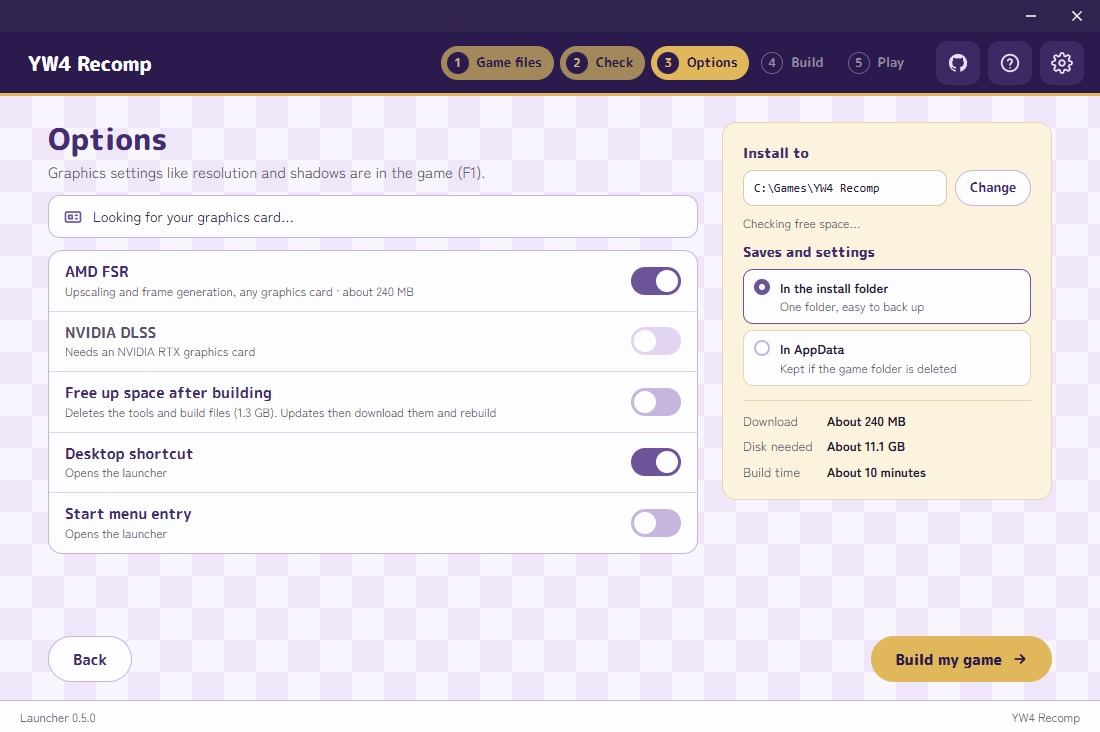
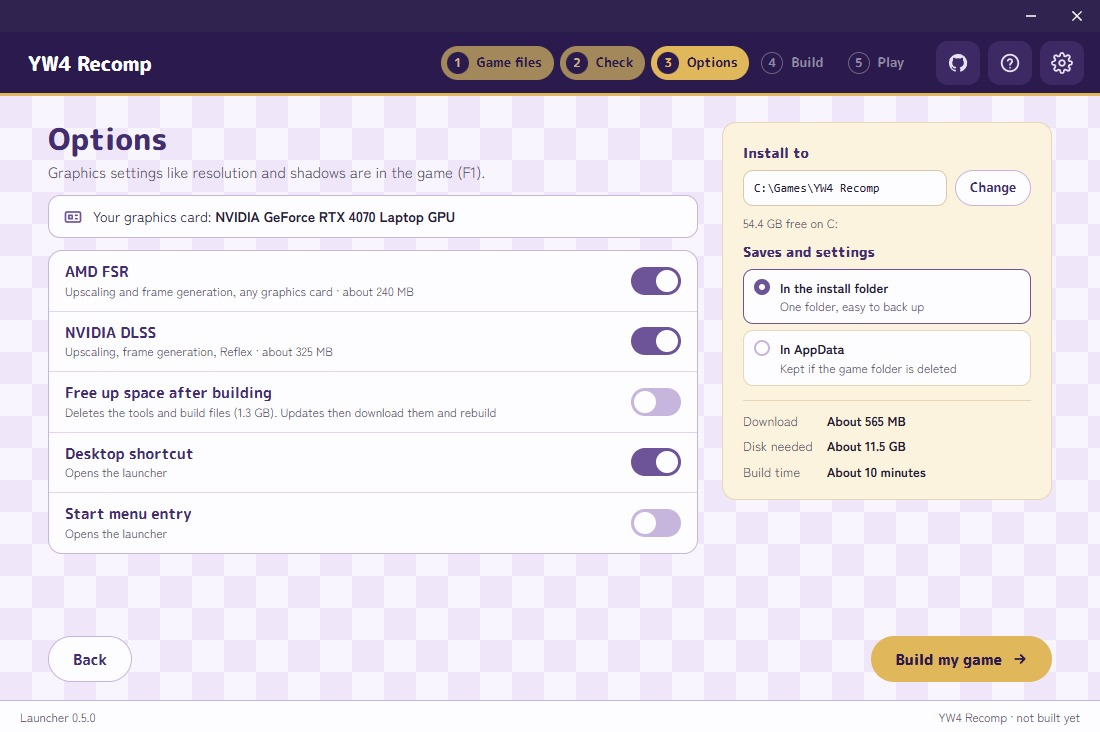
Docs: README and launcher page text edits, decision 0056 wording
Claude-Session: https://claude.ai/code/session_011mSziYPd3Gb1Fegk761Loq

diff --git a/docs/launcher/index.html b/docs/launcher/index.html
@@ -65,7 +65,7 @@ kbd { font: 700 .82em/1 var(--display); background: var(--lilac-1); border: 1px 
 .btn.ghost:hover { color: var(--gold); background: oklch(80% 0.12 85 / .12); }
 .shot { background: var(--gold); border-radius: var(--r); padding: 8px; box-shadow: 0 18px 40px oklch(15% 0.08 295 / .5); margin: 0; }
 .shot img { display: block; width: 100%; height: auto; border-radius: 8px; }
-.shot figcaption { color: var(--ink-2); font-size: .8rem; margin: 8px 6px 2px; }
+.shot figcaption { color: var(--violet-deep); font-size: .8rem; margin: 8px 6px 2px; }
 
 .shell { max-width: 1280px; margin: 0 auto; padding: 40px 20px 72px; display: grid; grid-template-columns: 236px minmax(0, 1fr); gap: 40px; align-items: start; }
 .shell > * { min-width: 0; }
@@ -96,6 +96,7 @@ article { background: var(--white); border-radius: var(--r); border: 1px solid v
 .spec dd { font-weight: 700; }
 .spec dt:last-of-type, .spec dd:last-of-type { border-bottom: 0; }
 .whole { margin: 0; }
+.whole + .whole { margin-top: 14px; }
 .whole img { display: block; width: 100%; height: auto; border-radius: 10px; border: 1px solid var(--lilac-2); }
 .whole figcaption { margin: 6px 2px 0; font-size: var(--step--1); color: var(--ink-2); }
 .pair { display: grid; grid-template-columns: repeat(auto-fit, minmax(min(100%, 320px), 1fr)); gap: 14px; }
@@ -129,14 +130,14 @@ footer a { color: var(--gold); }
       <span class="eyebrow">YW4 Recomp · fan PC port</span>
       <h1>The launcher</h1>
       <p>A Windows app for the PC version of <i>Yo-kai Watch 4++</i>. Point it at your own game files: it checks them,
-        builds the game on your PC once and starts it, with mods, DLC, saves and screenshots in one place.</p>
+        builds YW4Recomp on your PC once and starts it, with mods, DLC, saves and screenshots all in one place.</p>
       <div class="stats">
         <div class="stat"><b>5 steps</b><span>game files, check, options, build, play</span></div>
         <div class="stat"><b>10–15 min</b><span>to build the game, once, on your PC</span></div>
         <div class="stat"><b>11 themes</b><span>synced with the in-game overlay</span></div>
       </div>
       <div class="links">
-        <a class="btn ghost" href="../">Home</a>
+        <a class="btn" href="../">Home</a>
         <a class="btn ghost" href="../compare/">Comparisons</a>
         <a class="btn ghost" href="https://github.com/ILFforever/YW4Recomp">Project on GitHub</a>
       </div>
@@ -168,14 +169,15 @@ footer a { color: var(--gold); }
       <div class="body">
         <div class="top">
           <div class="prose">
-            <p>The first time, a welcome popup says what's going to happen:</p>
+            <p>Follow the steps below to build your own copy of YW4Recomp:</p>
             <ol class="steps">
               <li><span><b>Point it at your game files.</b> NSP, XCI or extracted folders of version 2.2.0.</span></li>
-              <li><span><b>It checks and builds the game.</b> On this PC, once: about 10 to 15 minutes.</span></li>
+              <li><span><b>It checks, extracts and builds the game.</b> locally, once: about 10 to 15 minutes.</span></li>
               <li><span><b>Play.</b> From the launcher, or from a shortcut.</span></li>
             </ol>
-            <p>Next to it the launcher lists what you need before you start: the game and its 2.2.0 update, the keys
-              for NSP and XCI files, a graphics card with Vulkan 1.3, and the free disk space.</p>
+            <p>What you need before you start: the game and its 2.2.0 update, the keys
+              for NSP and XCI files, a graphics card with Vulkan 1.3, and the free disk space. 
+              The launcher checks your files before beginning the build process.</p>
           </div>
           <div class="spec"><dl>
             <dt>Needs</dt><dd>Windows, x86-64</dd>
@@ -198,14 +200,13 @@ footer a { color: var(--gold); }
             <p>Choose how your copy is stored: <b>NSP or XCI</b> files, or <b>extracted folders</b> (ExeFS and RomFS,
               the update applied). Then point it at the base game, the 2.2.0 update, the keys folder and, if you have
               them, the DLC.</p>
-            <p><b>Nothing from the game comes with the launcher.</b> Your files stay on your PC and are only read; the
-              launcher never downloads games or keys.</p>
+            <p><b>Nothing from the game comes with the launcher.</b> The YKW4 Recomp launcher does not ship with any game files nor assets and we do not condone piracy or unauthorized distribution of copyrighted materials.</p>
           </div>
           <div class="spec"><dl>
             <dt>Formats</dt><dd>NSP, XCI, or extracted folders</dd>
-            <dt>Version</dt><dd>2.2.0, checked</dd>
+            <dt>Version</dt><dd>2.2.0 (Final version)</dd>
             <dt>Keys</dt><dd>prod.keys for NSP and XCI; an NSP also needs title.keys</dd>
-            <dt>DLC</dt><dd>Optional</dd>
+            <dt>DLC</dt><dd>Optional (can be added later)</dd>
           </dl></div>
         </div>
         <figure class="whole">
@@ -221,14 +222,13 @@ footer a { color: var(--gold); }
         <div class="top">
           <div class="prose">
             <ul>
-              <li><b>Check</b> (a few seconds, nothing changed): the files are the right game and the right version,
+              <li><b>Check</b> launcher checks if the files are the right game and the right version,
                 and the keys open them.</li>
-              <li><b>Options</b>: where the game goes, whether saves and settings stay in the game's folder (one
-                folder, easy to back up) or in AppData (kept if the folder is deleted), shortcuts, and the AMD FSR and
-                NVIDIA DLSS downloads. It names your graphics card; DLSS is greyed out without an NVIDIA RTX card. The
+              <li><b>Options</b>: where the build goes, whether saves and settings stay in the game's folder or in AppData, shortcuts, and your option to download AMD FSR or
+                NVIDIA DLSS. It names your graphics card; DLSS is greyed out without an NVIDIA RTX card. The
                 graphics settings themselves (resolution, shadows...) are in the game.</li>
-              <li><b>Build</b>: the game's code is translated and compiled into a Windows program on your PC, about
-                10 to 15 minutes, once. The launcher shows how far it is.</li>
+              <li><b>Build</b>: the game's code is being translated and compiled into a Windows program on your PC, about
+                10 to 15 minutes, once. You can follow along using the progress bar on screen.</li>
             </ul>
           </div>
           <div class="spec"><dl>
@@ -243,12 +243,12 @@ footer a { color: var(--gold); }
           <figcaption>Check: all set, with the files found</figcaption>
         </figure>
         <figure class="whole">
-          <img src="img/options.jpg" loading="lazy" alt="The Options screen: the install folder, saves in the game folder or AppData, AMD FSR, NVIDIA DLSS, shortcuts, and the download and disk size">
-          <figcaption>Options: where the game goes, and the downloads</figcaption>
+          <img src="img/options.jpg" loading="lazy" alt="The Options screen: your graphics card named, the install folder, saves in the game folder or AppData, AMD FSR, NVIDIA DLSS, free up space after building, shortcuts, and the download and disk size">
+          <figcaption>Options: where the game goes, and what to download</figcaption>
         </figure>
         <figure class="whole">
           <img src="img/build.jpg" loading="lazy" alt="The Build screen: Building your game, 0% with a progress bar, Show details and Cancel">
-          <figcaption>Build: the progress bar, once, about 10 to 15 minutes</figcaption>
+          <figcaption>Build: the progress bar, initial build, about 10 to 15 minutes</figcaption>
         </figure>
       </div>
     </article>
@@ -258,12 +258,12 @@ footer a { color: var(--gold); }
       <div class="body">
         <div class="top">
           <div class="prose">
-            <p>Once the game is built, the launcher opens on <b>Play</b>. Around the button:</p>
+            <p>Once the game is built, the launcher opens on <b>Play</b>. With options:</p>
             <ul>
               <li><b>Overview</b>: what's new in this version, and your latest screenshots (<kbd>F12</kbd> in the game).</li>
               <li><b>Screenshots</b>, <b>Mods</b> (the English patch and other Switch mods) and <b>DLC</b> tabs.</li>
               <li>Last played, play time, and shortcuts to the saves and the logs.</li>
-              <li><b>Free up space</b>: the build files the game doesn't need to run.</li>
+              <li><b>Free up space</b>: you can remove the build files the game doesn't need to run.</li>
             </ul>
           </div>
           <div class="spec"><dl>
@@ -294,9 +294,9 @@ footer a { color: var(--gold); }
             </ul>
           </div>
           <div class="spec"><dl>
-            <dt>On Play</dt><dd>Hide, minimise, keep open, close</dd>
-            <dt>Saves</dt><dd>Game folder or AppData</dd>
-            <dt>Uninstall</dt><dd>Asks what to keep</dd>
+            <dt>On Play</dt><dd>Hiding while running behaves like Ubisoft Connect</dd>
+            <dt>Saves</dt><dd>choose Game folder or AppData</dd>
+            <dt>Uninstall</dt><dd>with detailed selection</dd>
           </dl></div>
         </div>
         <figure class="whole">

diff --git a/docs/index.html b/docs/index.html
@@ -178,19 +178,19 @@ footer a { color: var(--gold); }
     <div class="pics">
       <figure class="shot">
         <img src="screenshots/99-launcher-play.jpg" loading="lazy" alt="The launcher's Play screen: the game's icon, Play, what's new in this version, screenshots, mods and DLC">
-        <figcaption>The launcher: point it at your game files, it builds the game once, then Play. <a href="launcher/">More on the launcher</a></figcaption>
+        <figcaption>Native PC launcher: Build, play, update and manage your game, all in one place. <a href="launcher/">More on the launcher</a></figcaption>
       </figure>
       <figure class="shot">
         <img src="screenshots/97-overlay-settings.jpg" loading="lazy" alt="The in-game overlay's Settings: the display section with window mode, resolution, aspect ratio and frame rate">
-        <figcaption>The in-game overlay: a PC menu over the game, like Steam's, point and click with the mouse</figcaption>
+        <figcaption>The in-game overlay: Steam inspired control overlay: where you can find Graphical settings, Keybinds and more, built with full mouse and controller support in mind.</figcaption>
       </figure>
       <figure class="shot">
         <img src="screenshots/97-overlay-preview.jpg" loading="lazy" alt="Preview: the game running in the schoolyard under a bar with the shadow settings and the frame rate">
-        <figcaption>Preview: the game runs under the bar, so each change shows live</figcaption>
+        <figcaption>Preview: adjust game settings and see changes live.</figcaption>
       </figure>
       <figure class="shot">
         <img src="screenshots/98-overlay-themes.jpg" loading="lazy" alt="The overlay in four themes: Jibanyan, Komasan, Shmoopie and Whisper">
-        <figcaption>Themes: Jibanyan, Komasan, Shmoopie, Whisper and more, the same as the launcher's</figcaption>
+        <figcaption>Themes: Inspired by popular characters like Jibanyan, Komasan, Shmoopie, Whisper and more, applied across the Launcher and overlay.</figcaption>
       </figure>
     </div>
   </section>

diff --git a/docs/decisions/0056-dlc-content.md b/docs/decisions/0056-dlc-content.md
@@ -46,9 +46,11 @@ the unimplemented IPC command.
     Upgrade Pack) need only `prod.keys`; ticket-encrypted add-ons whose title key is absent from `title.keys` are
     skipped with a note (the game never opens the small add-ons' RomFS).
   - Run `extract_dlc` during `python -m tools.yw4.extract`, during the launcher's DLC step (`copy_dlc` in `buildrun.rs`,
-    after copying checked NSPs into `data/dlc`), and before starting the game in `ready.rs` (`play`) whenever a
-    recognised NSP in `data/dlc` does not yet have its `data/dlc-romfs/<index>/` folder extracted. That keeps the
-    launcher's promise that players can drop DLC into `data/dlc` later without rebuilding.
+    after copying checked NSPs into `data/dlc`), and in `ready.rs` (`install_info` and `play`) whenever the 4++ Upgrade
+    Pack NSP is in `data/dlc` without `data/dlc-romfs/100/` unpacked yet. If `data/dlc-romfs/100/` is still missing
+    (for instance after an "Extracted folders" setup with no `prod.keys`), the Ready screen's DLC tab shows a
+    **Choose prod.keys…** banner (`set_dlc_keys` in `ready.rs`, `save_keys_dir` in `buildrun.rs`) that saves `keys_dir`
+    to `config.toml` and unpacks the pack on the spot.
   - `game.ini` (`tools/yw4/build_install.py`) and `cfg.dlc_env()` (`tools/yw4/config.py`) set `YW4_DLCROMFS_DIR` to
     `<romfs_dir>/../dlc-romfs` (`../../data/dlc-romfs` in an install).
 - **Serving add-on RomFS at run time (`runtime/src/romfs.c`, `runtime/src/svc_fs.c`)**:
